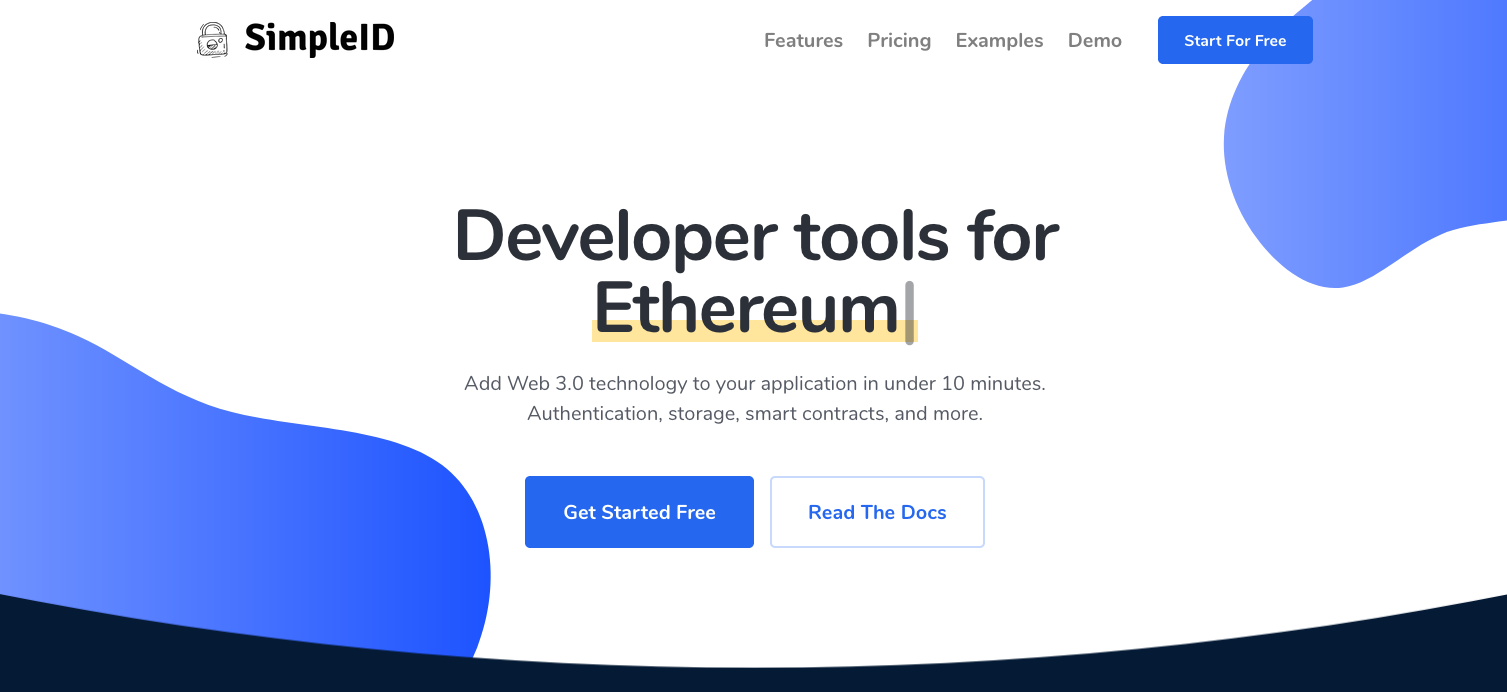
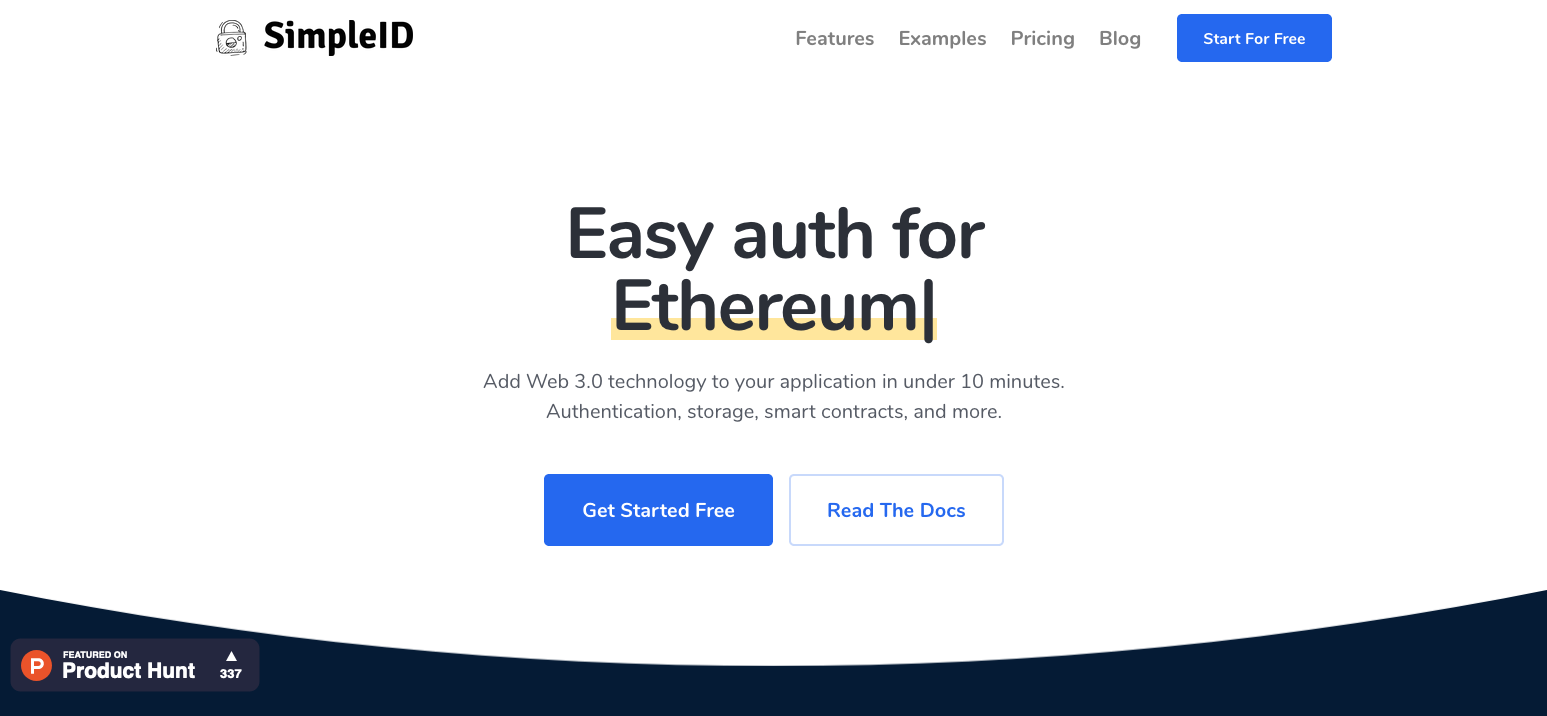
twitter card

diff --git a/dist/assets/css/theme.css b/dist/assets/css/theme.css
@@ -304,6 +304,13 @@ template {
 [hidden] {
   display: none !important; }
 
+.ph-button {
+  position: fixed;
+  bottom: 30px;
+  left: 15px;
+  z-index: 999;
+}
+
 h1, h2, h3, h4, h5, h6,
 .h1, .h2, .h3, .h4, .h5, .h6 {
   margin-bottom: 1rem;
@@ -7607,6 +7614,9 @@ a.card {
 .bg-gradient {
   background: linear-gradient(to right, #2568EF, #FF564F) !important; }
 
+.bg-gradient-1 {
+  background: linear-gradient(to right, #c0cfff, #003dff) !important;
+}
 .bg-primary-alt {
   background-color: rgba(37, 104, 239, 0.1); }
 
